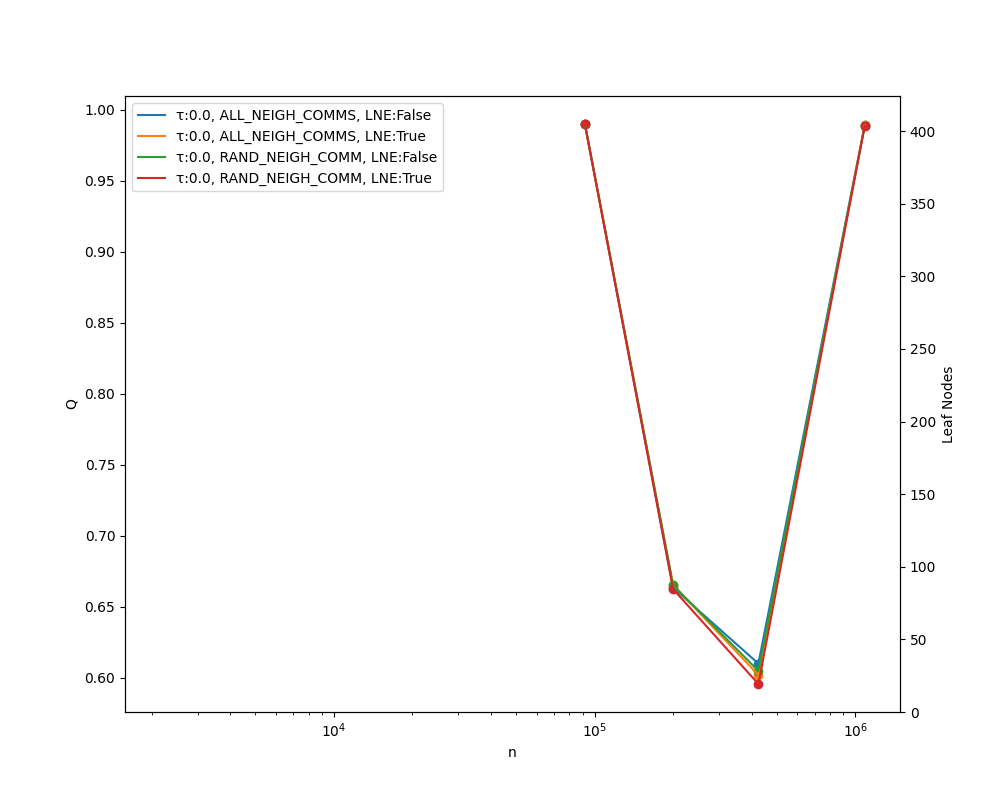
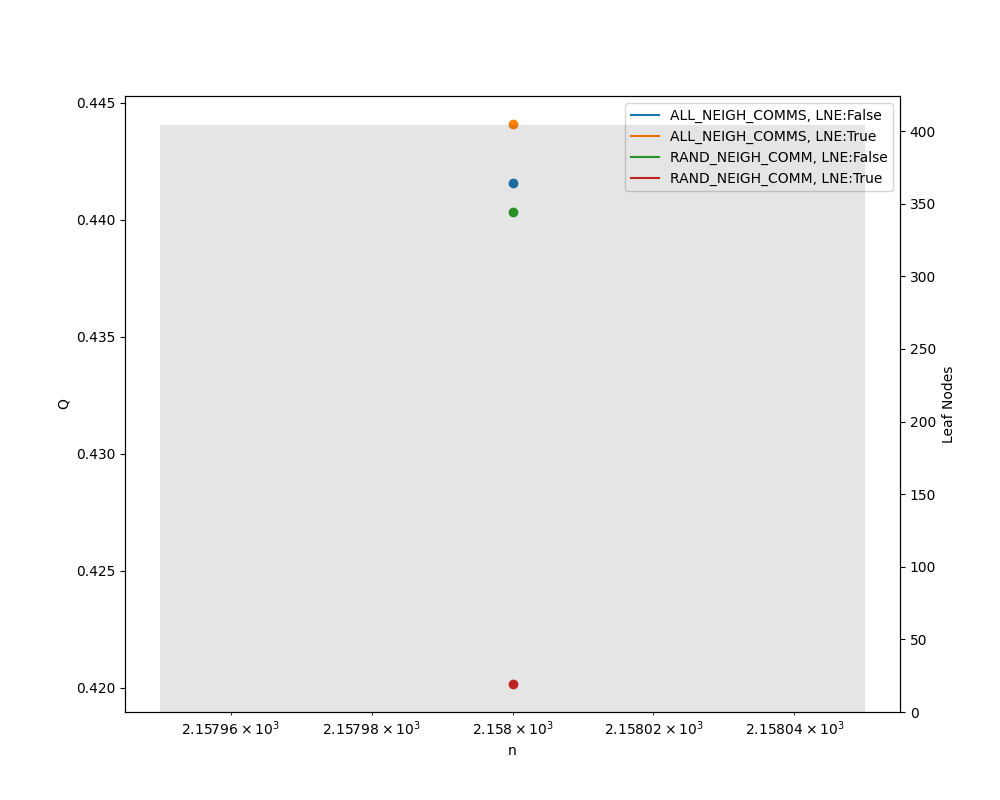
leaves bars

diff --git a/SNACSproject.py b/SNACSproject.py
@@ -90,8 +90,6 @@ if __name__ == "__main__":
 				t_dict[setting] = [(network_size, t)]
 		leaves_amount.append(nLeaves)
 	
-	t_dict = {(0.0, 2, False): [(91813, 1.1705708503723145), (200169, 12.926081657409668), (425008, 7.170727729797363), (1087562, 22.454992055892944)], (0.0, 2, True): [(91813, 0.9594748020172119), (200169, 15.115833282470703), (425008, 8.366578340530396), (1087562, 24.696043252944946)], (0.0, 4, False): [(91813, 2.2790768146514893), (200169, 50.753785371780396), (425008, 30.633625268936157), (1087562, 49.341519832611084)], (0.0, 4, True): [(91813, 1.8622634410858154), (200169, 66.05050611495972), (425008, 32.957130432128906), (1087562, 48.41746664047241)]}
-	q_dict = {(0.0, 2, False): [(91813, 0.9898459304170207), (200169, 0.6632481776933347), (425008, 0.6100103264751499), (1087562, 0.9892106916645698)], (0.0, 2, True): [(91813, 0.9897899268575165), (200169, 0.6652775163385561), (425008, 0.6018685367052669), (1087562, 0.989148708141077)], (0.0, 4, False): [(91813, 0.9897894402580069), (200169, 0.665051947581073), (425008, 0.6048222738269), (1087562, 0.9886757498956593)], (0.0, 4, True): [(91813, 0.9897852217965646), (200169, 0.6623645703786281), (425008, 0.5956118844101304), (1087562, 0.9886554986818218)]}
 	print(q_dict)
 	print(t_dict)
 	print("Start plotting...")
@@ -105,8 +103,9 @@ if __name__ == "__main__":
 	plt.ylabel("Q")
 	ax2 = ax.twinx()
 	ax2.set_ylabel("Leaf Nodes")
+	print(network_sizes, leaves_amount)
 	ax2.bar(x=network_sizes, width=0.1, height=leaves_amount, fc=(0, 0, 0, 0.1))
-	ax.legend(["τ:{}, {}, LNE:{}".format(setting[0],method_dict[setting[1]],setting[2]) for setting in q_dict.keys()])
+	ax.legend(["{}, LNE:{}".format(method_dict[setting[1]],setting[2]) for setting in q_dict.keys()])
 	plt.savefig('modularityPlot.png')
 
 	f, ax = plt.subplots(figsize=(10,8))
@@ -120,5 +119,5 @@ if __name__ == "__main__":
 	ax2 = ax.twinx()
 	ax2.set_ylabel("Leaf Nodes")
 	ax2.bar(x=network_sizes, width=0.1 ,height=leaves_amount, fc=(0, 0, 0, 0.1))
-	ax.legend(["τ:{}, {}, LNE:{}".format(setting[0],method_dict[setting[1]],setting[2]) for setting in t_dict.keys()])
+	ax.legend(["{}, LNE:{}".format(method_dict[setting[1]],setting[2]) for setting in t_dict.keys()])
 	plt.savefig('timePlot.png')
